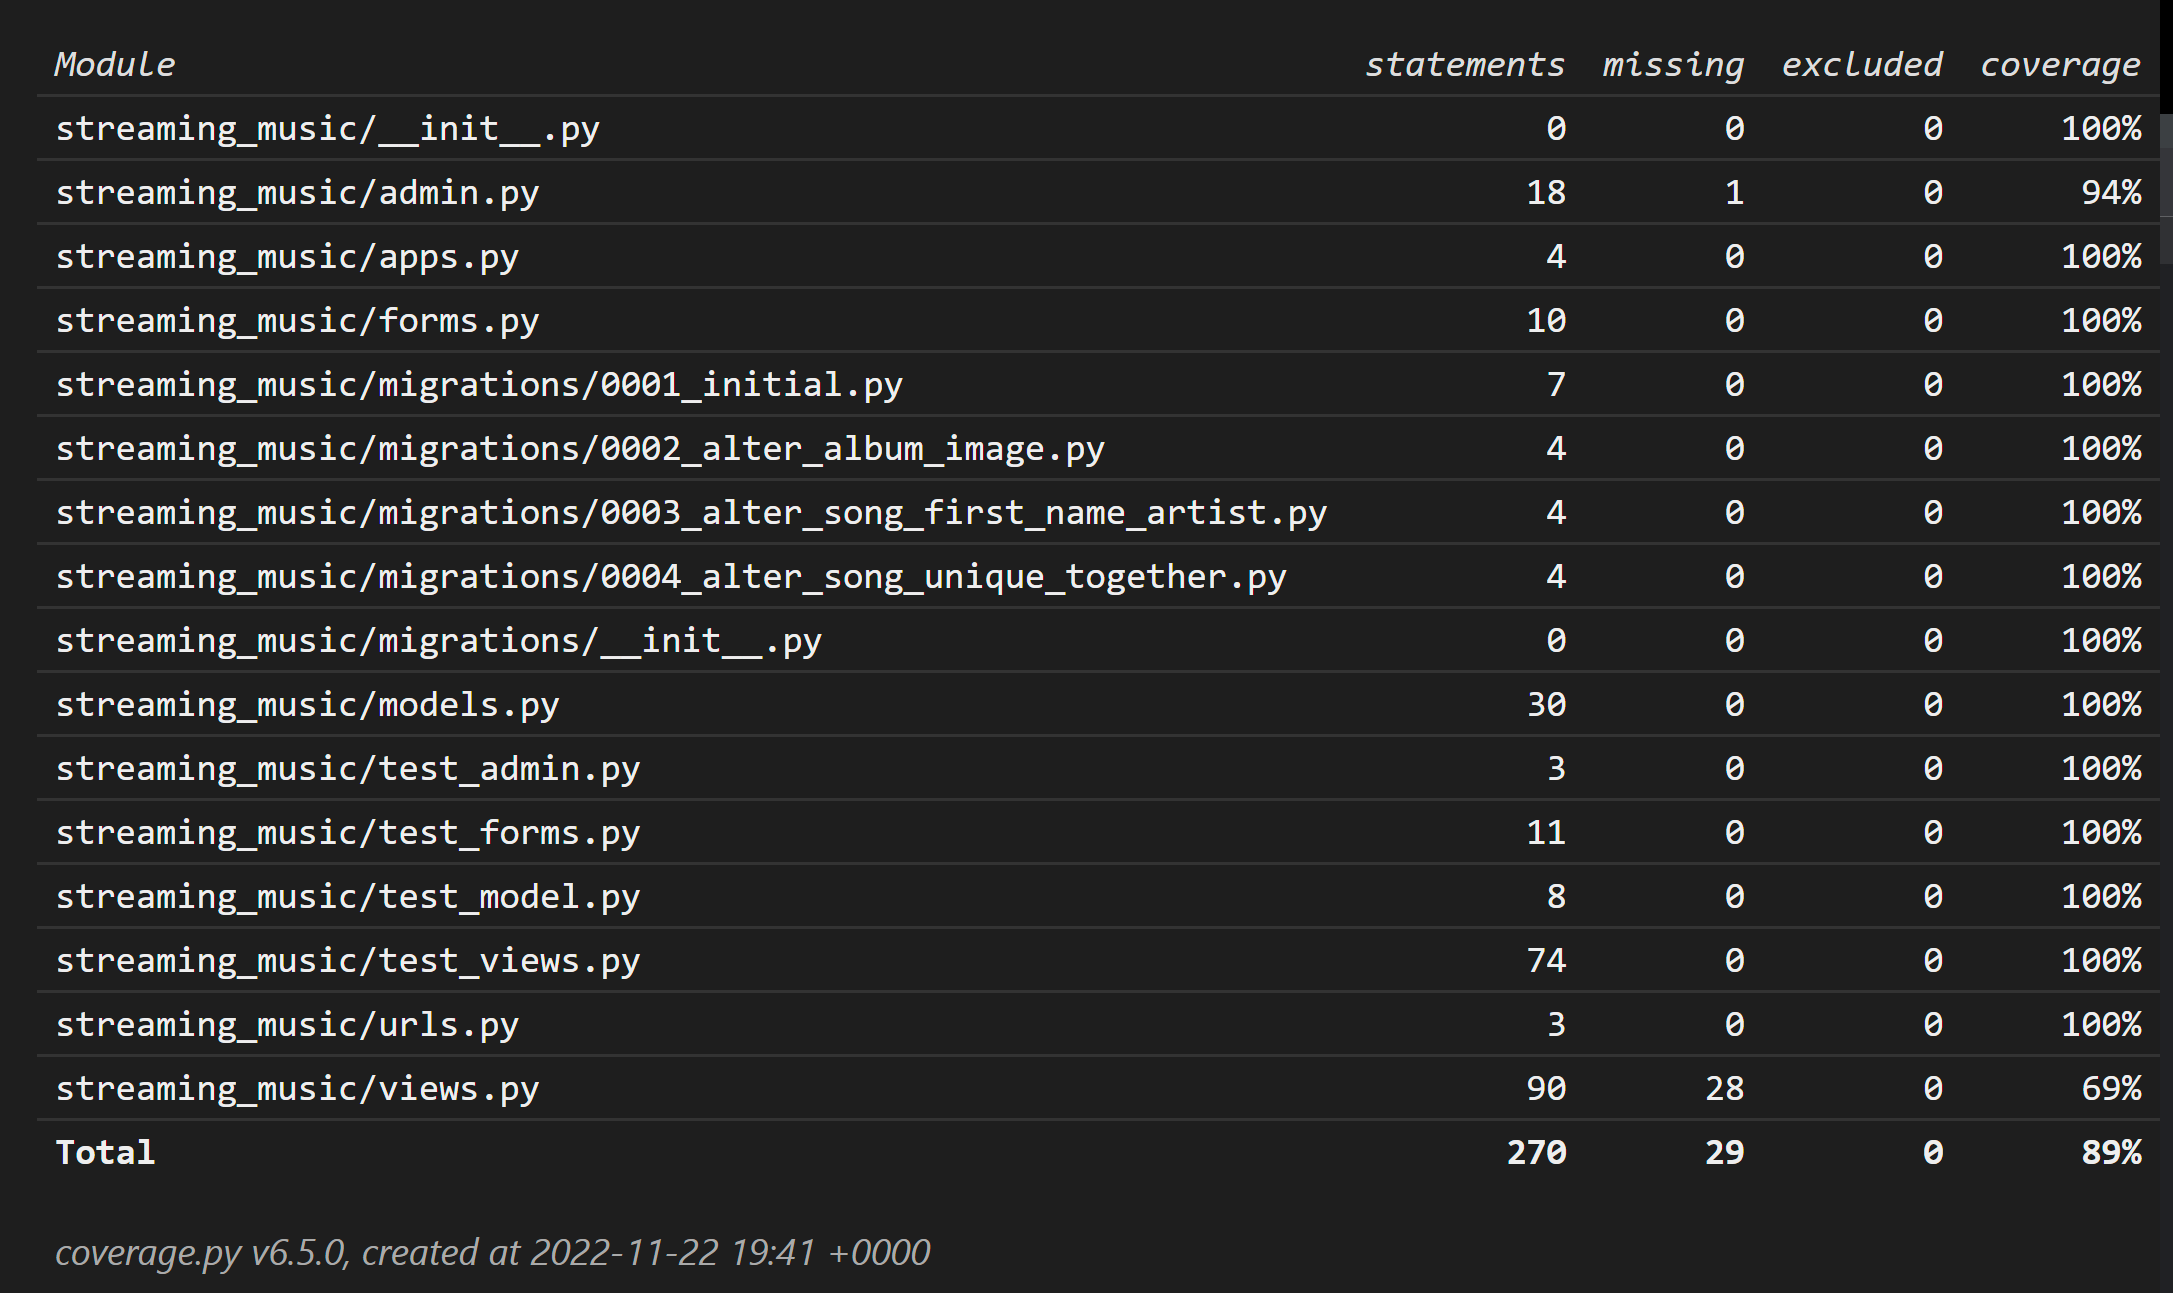
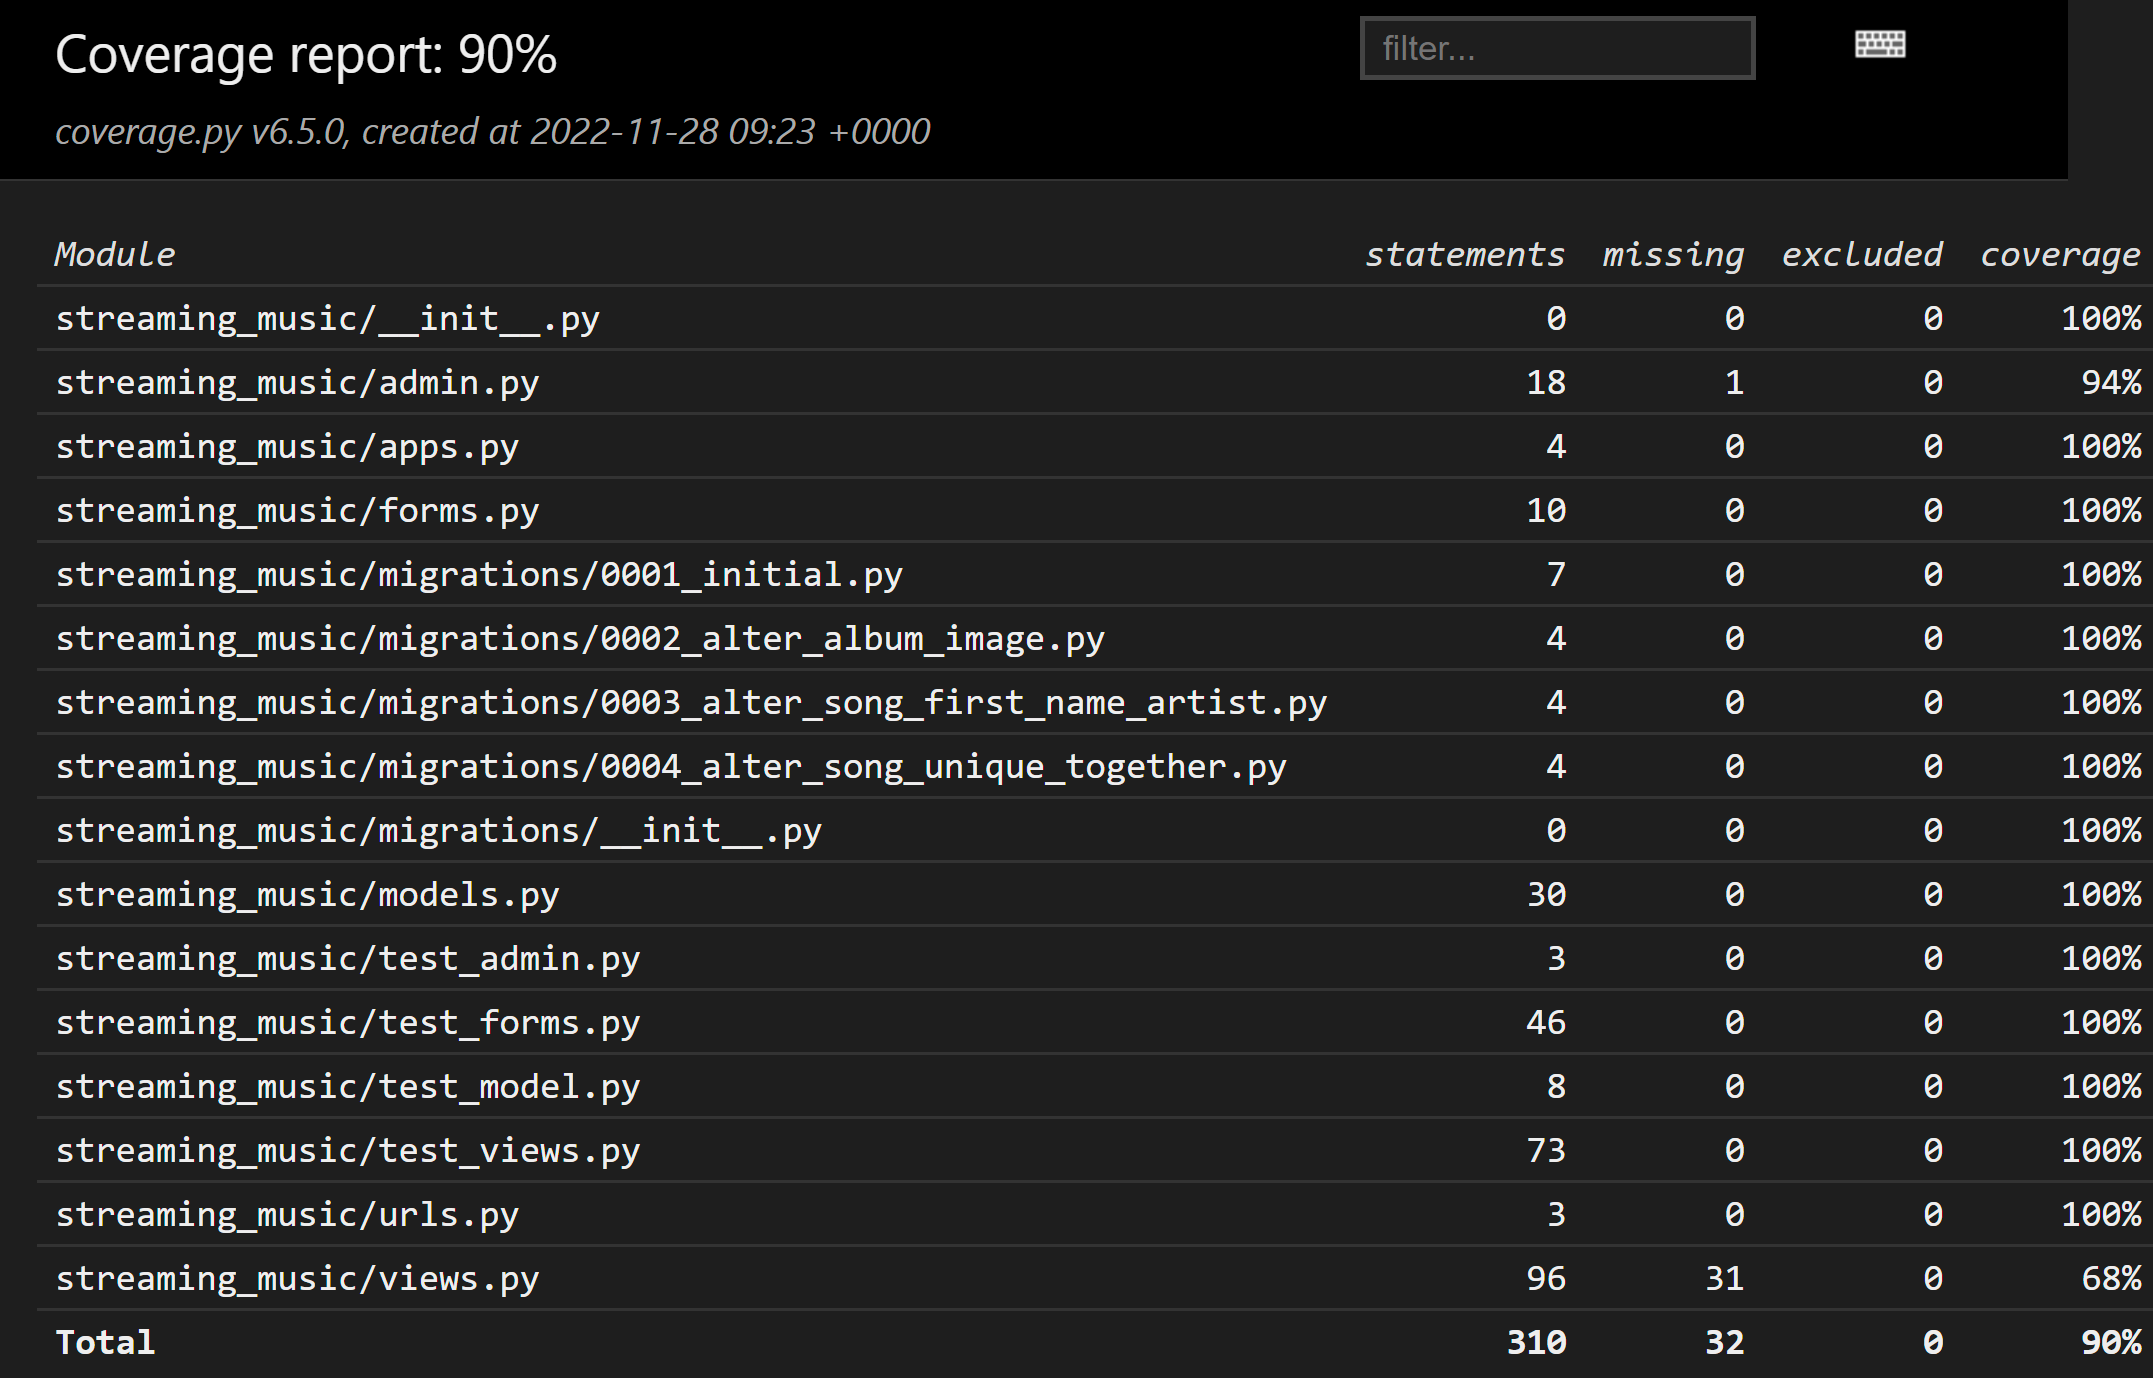
last testings

diff --git a/templates/albums.html b/templates/albums.html
@@ -12,7 +12,7 @@
     {% endif %}
                 {% for album in album_list %}
                 <div class="row d-flex justify-content-around">
-                <div class="col-md-6 sm-4 ">
+                <div class="col-md-6 sm-4 mb-3 ">
                     {% if 'Rock' in album.genre %}
                     <div class="card rock">
                     {% elif 'Metal' in album.genre %}
@@ -36,7 +36,7 @@
                         {% endif %}
                         
                         <div class="card-body">
-                            <div class="card-body text-white">
+                            <div class="card-body">
                                 {% if 'Other' in album.genre %}
                                 <a href="{% url 'albums' album.id %}">
                                 {% else %}
@@ -44,12 +44,21 @@
                                 {% endif %}
                                 <h3>{{ album.title }}</h3>
                                 <h3>{{ album.genre }}</h3>
+                                {% if 'Other' in album.genre %}
                                 <div class="mb-2">
                                 <strong>
                                 <span class="text-secondary"><i class="far fa-heart"></i></span>
                                 <span class="text-secondary">{{ album.number_of_likes }} </span>
                                 </strong>
                                 </div>
+                                {% else %}
+                                <div class="mb-2">
+                                    <strong>
+                                    <span class="text-secondary text-white"><i class="far fa-heart"></i></span>
+                                    <span class="text-secondary text-white">{{ album.number_of_likes }} </span>
+                                    </strong>
+                                    </div>
+                                {% endif %}
                                 <a href="edit/{{ album.id }}"> 
                                     <button class="btn btn-warning bottom">Edit Album </button>
                                 </a> 

diff --git a/templates/base.html b/templates/base.html
@@ -18,7 +18,7 @@
 </head>
 <body>
     <nav class="navbar navbar-expand-lg">
-        <div class="container-fluid ">
+        <div class="container-fluid mb-10 ">
           <a class="navbar-brand mb-0 h1" href="{% url 'home' %}"><img src="https://streaming-music-app.s3.eu-west-1.amazonaws.com/static/image/spotiflix.jpg" alt="Logo" width="60" height="50">  Spotiflix</a>
             <ul class="nav nav-pills top">
               <li class="nav-item">

diff --git a/streaming_music/models.py b/streaming_music/models.py
@@ -17,9 +17,7 @@ class Song(models.Model):
     first_name_artist = models.CharField(max_length=50)
     last_name_artist = models.CharField(max_length=50)
     uploaded_on = models.DateTimeField(auto_now=True)
-    approved = models.BooleanField(default=False)
     file = models.FileField(upload_to='media/', default='song')
-    likes = models.ManyToManyField(User, related_name='song_likes', blank=True)
     album = models.ForeignKey("Album", on_delete=models.CASCADE, related_name='album', default=None)
 
     class Meta:
@@ -46,9 +44,9 @@ class Album(models.Model):
     def __str__(self):
         return self.title
 
+
 class Comment(models.Model):
-    album = models.ForeignKey(Album, on_delete=models.CASCADE,
-                             related_name="comments")
+    album = models.ForeignKey(Album, on_delete=models.CASCADE, related_name="comments")
     name = models.CharField(max_length=80)
     email = models.EmailField()
     body = models.TextField()

diff --git a/streaming_music/admin.py b/streaming_music/admin.py
@@ -17,10 +17,7 @@ class SongAdmin(admin.ModelAdmin):
     list_display = ('title', 'first_name_artist','last_name_artist', 'uploaded_on', 'file')
     search_fields = ['song_title','first_name_artist','last_name_artist', 'uploaded_on']
     list_filter = ['title','first_name_artist','last_name_artist', 'uploaded_on']
-    action = ['approve_song']
 
-    def approve_song(request, self, queryset):
-        queryset.update(approved=True)
 
 @admin.register(Comment)
 class CommentAdmin(admin.ModelAdmin):

diff --git a/streaming_music/migrations/0007_remove_song_likes.py b/streaming_music/migrations/0007_remove_song_likes.py
@@ -1,0 +1,17 @@
+# Generated by Django 3.2.16 on 2022-11-28 11:43
+
+from django.db import migrations
+
+
+class Migration(migrations.Migration):
+
+    dependencies = [
+        ('streaming_music', '0006_remove_song_approved'),
+    ]
+
+    operations = [
+        migrations.RemoveField(
+            model_name='song',
+            name='likes',
+        ),
+    ]

diff --git a/streaming_music/migrations/0006_remove_song_approved.py b/streaming_music/migrations/0006_remove_song_approved.py
@@ -1,0 +1,17 @@
+# Generated by Django 3.2.16 on 2022-11-28 11:43
+
+from django.db import migrations
+
+
+class Migration(migrations.Migration):
+
+    dependencies = [
+        ('streaming_music', '0005_comment'),
+    ]
+
+    operations = [
+        migrations.RemoveField(
+            model_name='song',
+            name='approved',
+        ),
+    ]

diff --git a/README.md b/README.md
@@ -20,6 +20,7 @@ Spotiflix is a web page that allows the user to upload songs and create albums t
 7. HTML
 8. Phyton
 
+## Agile
 
 ## User Experience (UX)
 
@@ -31,6 +32,10 @@ My users' stories are built based on the features that the site needs.
 
 * The Third shows the list of the songs, the user can in practice click on the chosen album and see the song inside it.
 * The fourth is to play the song, so the user with this feature can play the music inside the album and in a second moment if liked can download it, the fifth user story developed
+
+<img src = "static/image/music-player-download.png" alt = "music player and download link">
+
+
 * The sixth is to divide the music for the genre, the albums, from the home page, are divided visually for the genre.
 the user can recognize all different genres from the color of the album.
 
@@ -41,9 +46,15 @@ the user can recognize all different genres from the color of the album.
 
 <img src = "static/image/edit-button.png" alt = "edit button for album">
 
-* The ninth feature is focus on the opportunity for the users to leave a like on their favorite albums and show appreciation to the creator of it.
-* The tenth is, at this point, for all the users see the number of likes left on a single album, highlighting the best album to discover
-* The last two feature are the opportunity for the users to delete albums and songs if not necessary anymore.
+* The ninth feature is focused on the opportunity for the users to leave a like on their favorite albums and show appreciation to the creator of it.
+
+<img src = "static/image/like-button.png" alt = "like button">
+
+* The tenth is, at this point, for all the users to see the number of likes left on a single album, highlighting the best album to discover
+* The last two features are the opportunity for the users to delete albums and songs if not necessary anymore.
+
+<img src = "static/image/delete-buttons.png" alt = "delete buttons">
+
   
 
 # Features
@@ -53,12 +64,12 @@ the user can recognize all different genres from the color of the album.
 * On the nav bar and the footer the user can find the link to register an account, log in, and when is logged also the logout
 * If the user is logged in 2 buttons appear that give the chance to the user to add one album, one song, or add a song inside an existing album 
 * When the user enters one album, can see the songs contained, listen to them, and download it
-* From the opening page the user, if authenticated can add a like to the album, otherwise can only see the number of likes from the community
+* From the opening page the user, if authenticated, can add a like to the album, otherwise can only see the number of likes from the community
 * if authenticated the user can also edit and remove the albums and songs using the handy button on every card.
 
 ## Future features
 
-* Make a difference between normal users and the creator of the album to give the possibility only to those create the album to make changes, remove or add songs to it
+* Make a difference between normal users and the creator of the album to give the possibility only to those who create the album to make changes, remove or add songs to it
 * Have a like button also on the songs
 * Create personalized albums for every user based on their favorite genre
 
@@ -69,42 +80,47 @@ the user can recognize all different genres from the color of the album.
 * Tested in views the functionality of add, remove and edit, the actual redirection on the page request, and the response all the time of 200.
 * Tested in models the actual creation of a string from the song model contained the song title
 * Tested in forms the requirements of all the fields to have the form validated
-* The only thing I didn't know how to test is the like functionality, the reason why the overall is not 100% and in the view file I have a percentage of 69%
-* One error occured when test the edit song functionality, the song is updated only if the file field is filled again, otherwhise an error is raised for MultiDictionary values.
+* The only thing I didn't know how to test is the like functionality, the reason why the overall is not 100% and in the view file I have a percentage of 68%
 
 <img src = "static/image/testing.png" alt = "testing page with results">
 
 # Bugs
 
 ## Solved bugs
-* Found a bug that allow the user to add an image instead of a mp3 file in the Song Form, solved creating a validation that check the file content of the file uploaded restricting the allowed only audio/mpeg content, showing to the user a message in the home page, if succesfully ('Song added succesfully'), if unsuccesfully ('Song not added, file needs to be mp3, please try again')
+* Found a bug that allows the user to add an image instead of an mp3 file in the Song Form, solved by creating a validation that checks the file content of the file uploaded restricting the allowed only audio/MPEG content, showing to the user a message in the home page, if successfully ('Song added successfully'), if unsuccessfully ('Song was not added, the file needs to be mp3, please try again')
+
+* Found a bug that raises an error when the album title is more than 1 word, fixed using as distinctive parameter the id instead of the title 
 
 ## Remaining bugs
-* In the edit process of the song if the file is not reuploaded the form raise an error
-* Unfortunately trying to use a technology not yet studied as the AWS bucket, my page stiling in some aspect is difficult to modify, found anyway some help with inline styling using bootstrap.   
+* At the moment, no new bug discovered
 
 
 # Deployment
 
  * Steps for deployment:
-    1. Push the code done on GitHub
+    1. Push the code on GitHub
     2. Create a New Heroku app
     3. Connect your GitHub account to your Heroku account
     4. Select the repository 
     5. Click on Deploy.
-    6. The live site page can be found on - https://spotiflix-app.herokuapp.com/.
+    6. The live site page can be found at - https://spotiflix-app.herokuapp.com/.
 
 
 ## Content 
 
-* Checked on - https://codepen.io/giana/pen/BZaGyP some advise about the shadowing.
-* Found an exhaustive explaination of how to build up some core functionality reading the documentation of Django, Boto3 for upload the mp3 file and image on AWS S3 bucket ( great thanks also to the tutor support for help me out when I add struggle to show my style.css file).
+* Checked on - https://codepen.io/giana/pen/BZaGyP for some advice about the shadowing.
+* Found an exhaustive explanation of how to build up some core functionality by reading the documentation of Django, and Boto3 for uploading the mp3 file and image on AWS S3 bucket ( great thanks also to the tutor support for helping me out when I add struggle to show my style.css file).
 * in-depth study about some doubts during the development of the project with the help of https://www.w3schools.com/
 
 ## Media 
 
 * Example songs to show the Play and download functionality downloaded from - https://www.soundhelix.com/audio-examples
 
+
+## Last Thoughts
+
+This project has challenged me in many factors, first of all, the error encountered that I never had the chance to experience, this challenges however they gave me the chance to work on myself and find a solution.
+After this project, I feel grown and more conscious of what can wait for me in the next future more ready to sustain different problem solving and able to solve by myself the error that I will encounter. 
 
 # Credits
 * Code Institute for the deployment terminal
